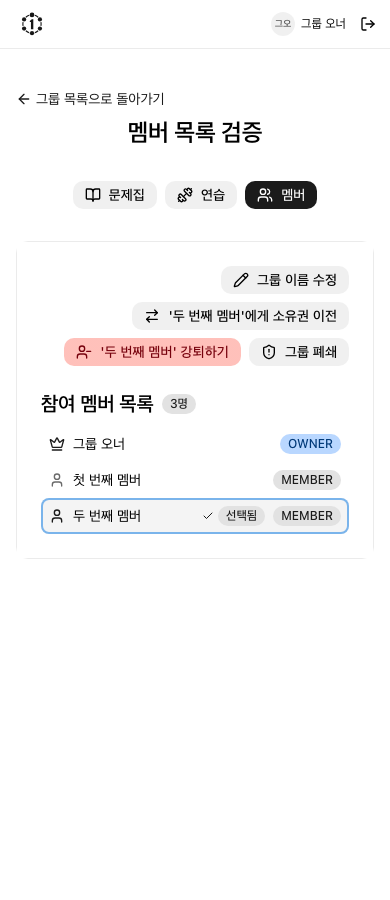
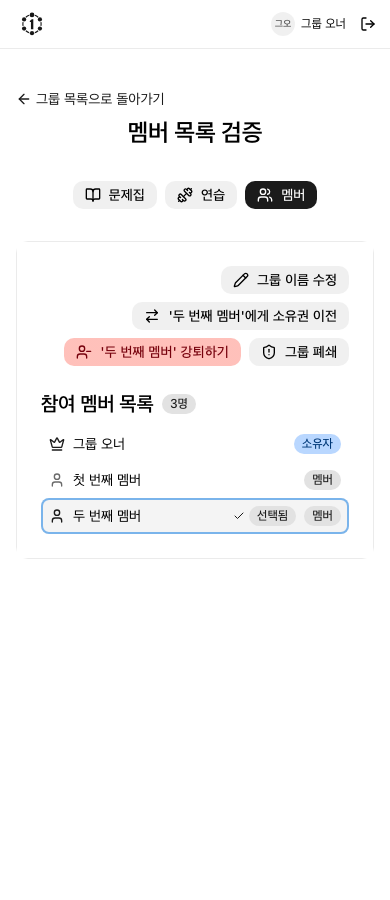
fix: display group member roles in Korean

Changed region(s): [[0.5846, 0.4667, 0.8615, 0.5911]]

diff --git a/src/routes/-components/MemberTab.tsx b/src/routes/-components/MemberTab.tsx
@@ -495,7 +495,7 @@ export function MemberTab({ groupId }: MemberTabProps) {
                         </HStack>
                       )}
                       <Badge
-                        label={isMemberOwner ? 'OWNER' : 'MEMBER'}
+                        label={isMemberOwner ? '소유자' : '멤버'}
                         variant={isMemberOwner ? 'blue' : 'neutral'}
                       />
                     </HStack>

diff --git a/e2e/group-members.spec.ts b/e2e/group-members.spec.ts
@@ -70,7 +70,7 @@ for (const width of [320, 390, 1280]) {
       for (const member of members)
         await expect(content).not.toContainText(member.userId)
       await expect(
-        rows.nth(0).getByText('OWNER', { exact: true }),
+        rows.nth(0).getByText('소유자', { exact: true }),
       ).toBeVisible()
       await expect(
         page.getByRole('button', { name: '그룹 소유권 이전', exact: true }),
